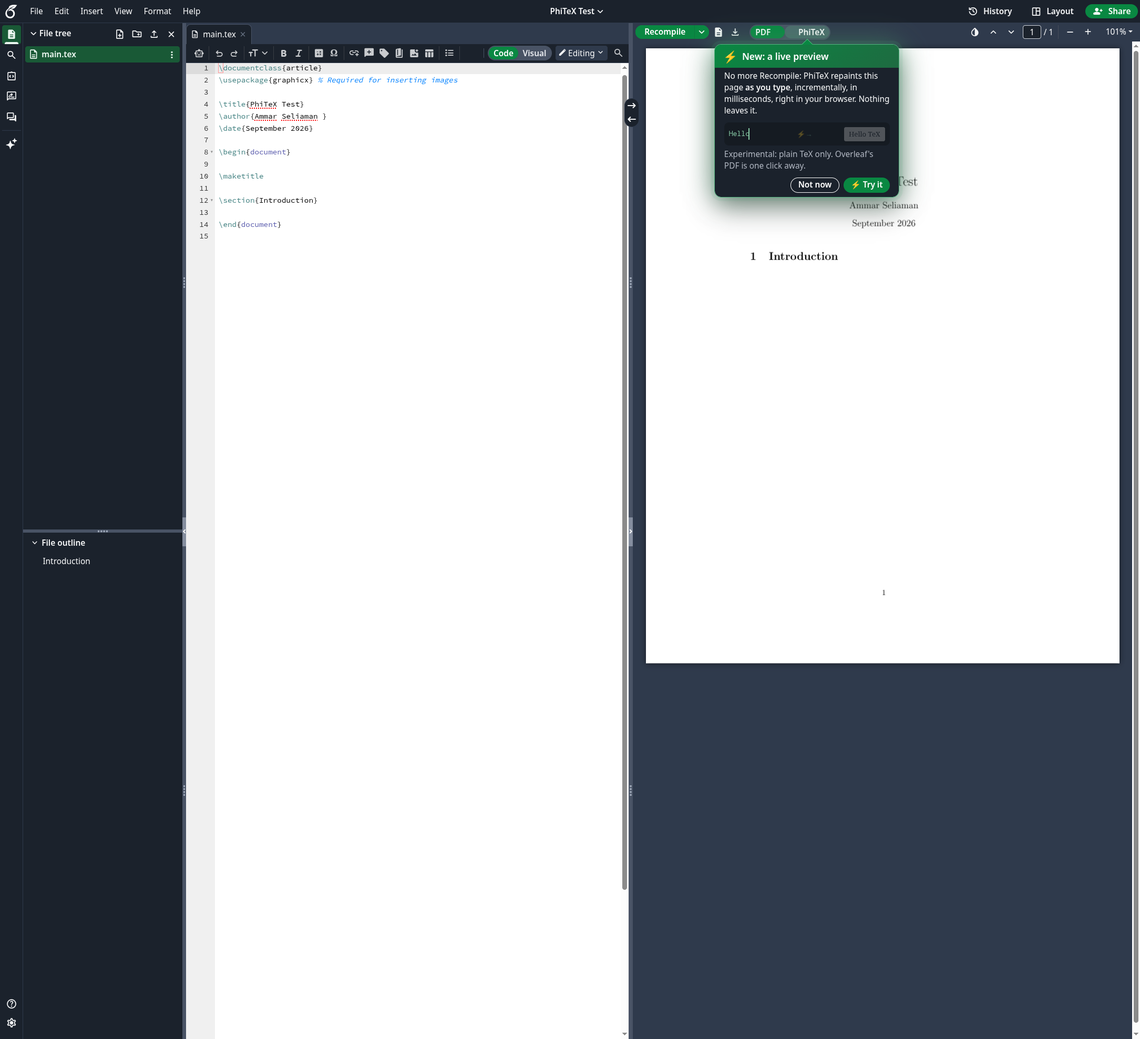
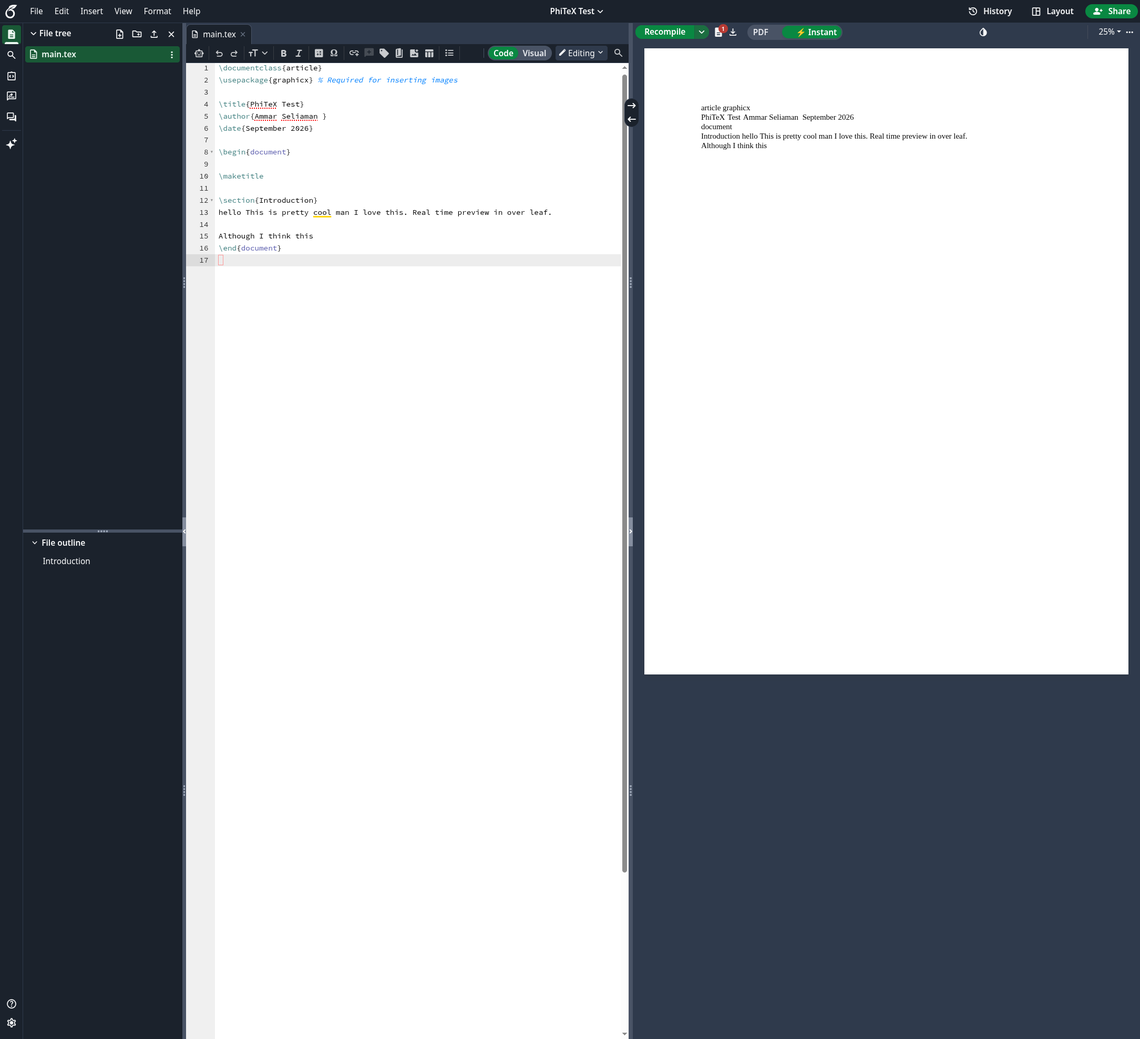
Overleaf UI: PDF | ⚡ Instant switch, native-matching toolbar, download menu, tip until dismissed, a guided tour
- The switch reads PDF | ⚡ Instant; Instant's controls mirror Overleaf's
  viewer markup (full or compact by the room actually left), and its
  hidden viewer stays laid out (pdf.js needs its offsetParent).
- Download follows the tab shown; a ▾ menu offers the other PDF
  (Overleaf's compiled one via its own link); a one-time explanation.
- The tip shows each load until "Don't show again"; a five-step tour
  after the first Try it, and from settings.

diff --git a/extension/src/content-main.ts b/extension/src/content-main.ts
@@ -148,21 +148,48 @@ const DOCK_CSS = `
   .phitex-on .pdf-viewer { visibility: hidden !important; pointer-events: none !important; }
   /* in PhiTeX mode, Overleaf's viewer controls go, all but its invert-colors button (which works on ours too) */
   .phitex-on #toolbar-pdf-controls *:not(:has(.theme-toggle-btn)):not(.theme-toggle-btn):not(.theme-toggle-btn *) { display: none !important; }
-  .phitex-on .toolbar-pdf-right { display: flex; align-items: center; }
+  .phitex-on .toolbar-pdf-right { display: flex; align-items: center; justify-content: flex-end; min-width: 0; }
+  /* its controls' wrapper keeps only the invert button: no room held for the hidden rest */
+  .phitex-on #toolbar-pdf-controls, .phitex-on #toolbar-pdf-controls > * { flex: 0 0 auto !important; width: auto !important; }
+  .phitex-on .toolbar-pdf-left { flex-shrink: 0; }
   #phitex-controls:not(.compact) .phitex-compact-only { display: none; }
   #phitex-controls.compact .pdfjs-toolbar-buttons, #phitex-controls.compact .pdfjs-page-number-input { display: none; }
   #phitex-switch { margin-left: 8px; display: inline-flex; align-items: center; position: relative; }
   #phitex-switch .toggle-switch { margin: 0; }
   #phitex-controls, #phitex-left { display: none !important; }
-  .phitex-on #phitex-controls { display: flex !important; }
+  .phitex-on #phitex-controls { display: flex !important; flex: 0 0 auto !important; width: auto !important; }
   .phitex-on #phitex-left { display: inline-flex !important; align-items: center; }
   /* in PhiTeX mode, Overleaf's own logs and download (its compiler's) give way to ours, in the same place */
   .phitex-on .toolbar-pdf-left > :not(.compile-button-group):not(#phitex-switch):not(#phitex-left) { display: none !important; }
   .phitex-badge:empty { display: none; }
+  #phitex-dlgroup { position: relative; align-items: center; }
+  #phitex-dlgroup .phitex-caret { width: 16px; min-width: 16px; margin-left: -4px; padding: 0; }
+  #phitex-dlgroup .phitex-caret .material-symbols { font-size: 16px; }
+  #phitex-dlmenu .dropdown-item { display: flex; justify-content: space-between; gap: 12px; }
+  .phitex-toast { animation: phitex-tip-in .35s cubic-bezier(.2,1.2,.4,1); cursor: pointer; }
   .phitex-badge { position: absolute; top: -2px; right: -4px; min-width: 16px; height: 16px; padding: 0 4px; border-radius: 9999px;
     font-size: 10px; font-weight: 700; line-height: 16px; text-align: center; color: #fff; background: var(--bg-info-01, #366cbf); }
   .phitex-badge.warning { background: var(--bg-warning-01, #8f5514); } .phitex-badge.error { background: var(--bg-danger-01, #b83a33); }
   #phitex-zoom-menu { min-width: 120px; }
+  #phitex-tour { position: fixed; z-index: 1060; width: 320px; max-width: calc(100vw - 16px); overflow: visible;
+    border: 1.5px solid var(--green-40, #53b57f); border-radius: 12px; box-shadow: 0 0 0 4px rgb(83 181 127 / 18%), 0 18px 48px rgb(0 0 0 / 45%);
+    animation: phitex-tip-in .35s cubic-bezier(.2,1.3,.4,1); }
+  #phitex-tour::before { content: ""; position: absolute; top: -8px; left: var(--arrow, 50%); width: 14px; height: 14px; transform: translateX(-50%) rotate(45deg);
+    background: var(--green-50, #098842); border-left: 1.5px solid var(--green-40, #53b57f); border-top: 1.5px solid var(--green-40, #53b57f); }
+  #phitex-tour .popover-header { display: flex; justify-content: space-between; align-items: center; gap: 8px; font-size: 15px; font-weight: 700; color: #fff; border: 0;
+    background: linear-gradient(135deg, var(--green-50, #098842), var(--green-60, #1e6b41)); padding: 10px 14px; }
+  #phitex-tour .phitex-step { font-size: 11px; font-weight: 600; opacity: .8; white-space: nowrap; }
+  #phitex-tour .phitex-tip-clip { overflow: hidden; border-radius: 11px; }
+  #phitex-tour .phitex-tip-actions { display: flex; gap: 8px; justify-content: flex-end; align-items: center; margin-top: 10px; }
+  #phitex-tour [data-t="skip"] { margin-right: auto; padding-left: 0; color: var(--content-placeholder-dark, #8d96a5); text-decoration: none; }
+  #phitex-tour kbd { font-size: 11px; padding: 1px 4px; }
+  .phitex-dots { display: flex; gap: 5px; justify-content: center; margin-top: 10px; }
+  .phitex-dots span { width: 6px; height: 6px; border-radius: 50%; background: rgb(255 255 255 / 25%); transition: all .2s; }
+  .phitex-dots span.on { width: 16px; border-radius: 3px; background: var(--green-40, #53b57f); }
+  .phitex-ring { position: relative; outline: 2px solid var(--green-40, #53b57f) !important; outline-offset: 2px; border-radius: 6px;
+    animation: phitex-ringo 1.3s ease-out infinite; }
+  phitex-preview.phitex-ring { outline-offset: -4px; }
+  @keyframes phitex-ringo { 50% { outline-color: rgb(83 181 127 / 30%); } }
   #phitex-tip { position: fixed; z-index: 1060; width: 320px; max-width: calc(100vw - 16px); overflow: visible;
     border: 1.5px solid var(--green-40, #53b57f); border-radius: 12px;
     box-shadow: 0 0 0 4px rgb(83 181 127 / 18%), 0 18px 48px rgb(0 0 0 / 45%), 0 0 32px rgb(83 181 127 / 35%);
@@ -189,7 +216,9 @@ const DOCK_CSS = `
   @keyframes phitex-shimmer { 0% { transform: translateX(-120%); } 45%, 100% { transform: translateX(120%); } }
   @keyframes phitex-glow { 50% { box-shadow: 0 0 0 6px rgb(83 181 127 / 10%), 0 18px 48px rgb(0 0 0 / 45%), 0 0 44px rgb(83 181 127 / 55%); } }
   #phitex-tip .phitex-bolt { display: inline-block; animation: phitex-shake 1.6s ease-in-out .5s 2; transform-origin: 50% 70%; }
-  #phitex-tip .phitex-tip-actions { display: flex; gap: 8px; justify-content: flex-end; margin-top: 10px; }
+  #phitex-tip .phitex-tip-actions { display: flex; gap: 8px; justify-content: flex-end; align-items: center; margin-top: 10px; }
+  #phitex-tip #phitex-tip-never { margin-right: auto; padding-left: 0; color: var(--content-placeholder-dark, #8d96a5); text-decoration: none; font-size: 12px; }
+  #phitex-tip #phitex-tip-never:hover { color: var(--content-primary-dark, #f4f5f6); text-decoration: underline; }
   @keyframes phitex-tip-in { 0% { opacity: 0; transform: translateY(18px) scale(.85); } 60% { opacity: 1; } }
   @keyframes phitex-shake { 0%, 100% { transform: rotate(0); } 10%, 30%, 50% { transform: rotate(-14deg) scale(1.15); } 20%, 40% { transform: rotate(14deg) scale(1.15); } 60% { transform: rotate(0); } }
   .phitex-pulse { position: relative; border-radius: 9999px; }
@@ -198,7 +227,7 @@ const DOCK_CSS = `
   .phitex-pulse { background: rgb(83 181 127 / 25%); color: #fff !important; }
   @keyframes phitex-ring { 70% { box-shadow: 0 0 0 14px rgb(83 181 127 / 0%); } 100% { box-shadow: 0 0 0 0 rgb(83 181 127 / 0%); } }
   @media (prefers-reduced-motion: reduce) {
-    #phitex-tip, #phitex-tip *, #phitex-tip .phitex-tip-clip::after, .phitex-pulse::after { animation: none !important; }
+    #phitex-tip, #phitex-tip *, #phitex-tour, .phitex-ring, #phitex-tip .phitex-tip-clip::after, .phitex-pulse::after { animation: none !important; }
     #phitex-tip .phitex-demo code { width: 9ch; } #phitex-tip .phitex-demo .phitex-mini { opacity: 1; }
   }`;
 
@@ -211,26 +240,29 @@ const DOCK_CSS = `
  * toolbar (layout changed upstream, PDF closed), the panel floats: the
  * fallback.
  */
-function dockInOverleaf(panel: Panel): { toggle(): boolean } {
+function dockInOverleaf(panel: Panel): { toggle(): boolean; tour(): void } {
   const PANE = ".pdf.full-size, .ide-redesign-pdf-container .pdf, .pdf";
   /** Without Overleaf's PDF pane this long after load, the preview floats (the fallback). */
   const FALLBACK_AFTER_MS = 8000;
+  /** The full controls' width (⌃ ⌄, page, − +, zoom), and some air. */
+  const FULL_CONTROLS_PX = 260;
   const started = performance.now();
   const style = document.createElement("style");
   style.textContent = DOCK_CSS;
   document.head.append(style);
   let mode: "pdf" | "phitex" = "pdf";
-  let tipSeen = true;
-  chrome.storage.local.get(["view", "tipSeen"]).then(({ view, tipSeen: seen }) => {
+  /** The tip shows on every load (on Overleaf's PDF) until "Don't show again". */
+  let tipOff = true;
+  chrome.storage.local.get(["view", "tipOff"]).then(({ view, tipOff: off }) => {
     if (view === "phitex" || view === "pdf") mode = view;
-    tipSeen = !!seen;
+    tipOff = !!off;
     tick();
-    if (!tipSeen) setTimeout(tip, 1500);
+    if (!tipOff) setTimeout(tip, 1500);
   });
   const set = (m: "pdf" | "phitex") => {
     mode = m;
     void chrome.storage.local.set({ view: m });
-    if (m === "phitex") dismissTip();
+    if (m === "phitex") hideTip();
     tick();
   };
 
@@ -244,9 +276,9 @@ function dockInOverleaf(panel: Panel): { toggle(): boolean } {
     sw.setAttribute("aria-label", "Preview: Overleaf's PDF or PhiTeX's");
     sw.innerHTML = `<form><fieldset class="toggle-switch"><legend class="visually-hidden">Preview</legend>
       <input type="radio" name="phitex-view" id="phitex-v-pdf" class="toggle-switch-input" value="pdf">
-      <label for="phitex-v-pdf" class="toggle-switch-label" title="Overleaf's compiler and PDF"><span>Overleaf compiler</span></label>
+      <label for="phitex-v-pdf" class="toggle-switch-label" title="Overleaf's compiled PDF"><span>PDF</span></label>
       <input type="radio" name="phitex-view" id="phitex-v-phitex" class="toggle-switch-input" value="phitex">
-      <label for="phitex-v-phitex" class="toggle-switch-label" title="PhiTeX's live preview (experimental) · Alt+Shift+P"><span>PhiTeX</span></label>
+      <label for="phitex-v-phitex" class="toggle-switch-label" title="Instant preview by PhiTeX (experimental) · Alt+Shift+P"><span>⚡ Instant</span></label>
     </fieldset></form>`;
     sw.addEventListener("change", (e) => set((e.target as HTMLInputElement).value as "pdf" | "phitex"));
     left.append(sw);
@@ -321,6 +353,26 @@ function dockInOverleaf(panel: Panel): { toggle(): boolean } {
     return c;
   }
 
+  const compiledLink = () => document.querySelector<HTMLAnchorElement>('.toolbar-pdf-left a[aria-label="Download PDF"][href]');
+
+  /** The first Instant download says what it is, once: Overleaf's popover, under the button. */
+  function explainOnce(anchor: Element): void {
+    chrome.storage.local.get("dlExplained").then(({ dlExplained }) => {
+      if (dlExplained) return;
+      void chrome.storage.local.set({ dlExplained: true });
+      const b = anchor.querySelector("#phitex-dlgroup")!.getBoundingClientRect();
+      const t = document.createElement("div");
+      t.className = "popover bs-popover-bottom show phitex-toast";
+      t.setAttribute("role", "status");
+      t.innerHTML = `<div class="popover-body">This is the <b>⚡ Instant</b> preview's PDF (PhiTeX, experimental), named <code>…-instant.pdf</code>.
+        Overleaf's compiled PDF is in the <b>▾</b> menu, or on the PDF tab.</div>`;
+      Object.assign(t.style, { position: "fixed", left: `${Math.max(8, b.left - 20)}px`, top: `${b.bottom + 8}px`, maxWidth: "280px", zIndex: "1060" });
+      document.body.append(t);
+      setTimeout(() => t.remove(), 7000);
+      t.onclick = () => t.remove();
+    });
+  }
+
   /** In Overleaf's left toolbar, where its logs and download are: ours (PhiTeX's diagnostics and PDF). */
   function leftEl(left: Element): HTMLElement {
     let l = document.getElementById("phitex-left");
@@ -332,10 +384,42 @@ function dockInOverleaf(panel: Panel): { toggle(): boolean } {
       `<button type="button" id="phitex-logs" aria-label="PhiTeX diagnostics" title="PhiTeX diagnostics" class="d-inline-grid pdf-toolbar-btn toolbar-item log-btn btn btn-link" style="position: relative;">` +
       `<span class="button-content" aria-hidden="false"><span class="material-symbols" aria-hidden="true" translate="no">description</span></span>` +
       `<span class="phitex-badge" id="phitex-badge"></span></button>` +
-      `<button type="button" id="phitex-dl" aria-label="Download PhiTeX's PDF" title="Download PhiTeX's PDF (made locally)" class="d-inline-grid pdf-toolbar-btn toolbar-item btn btn-link">` +
-      `<span class="button-content" aria-hidden="false"><span class="material-symbols" aria-hidden="true" translate="no">download</span></span></button>`;
+      // (download what you see: this tab's PDF; the other one in the ▾ menu)
+      `<div class="dropdown btn-group" id="phitex-dlgroup">` +
+      `<button type="button" id="phitex-dl" aria-label="Download the Instant PDF" title="Download the ⚡ Instant PDF (PhiTeX, experimental)" class="d-inline-grid pdf-toolbar-btn toolbar-item btn btn-link">` +
+      `<span class="button-content" aria-hidden="false"><span class="material-symbols" aria-hidden="true" translate="no">download</span></span></button>` +
+      `<button type="button" id="phitex-dlmore" aria-label="Which PDF to download" title="Which PDF to download" aria-expanded="false" class="d-inline-grid pdf-toolbar-btn toolbar-item btn btn-link phitex-caret">` +
+      `<span class="material-symbols" aria-hidden="true" translate="no">expand_more</span></button>` +
+      `<ul class="dropdown-menu" id="phitex-dlmenu" role="menu">` +
+      `<li><button type="button" class="dropdown-item" data-dl="instant">⚡ Instant PDF <span class="text-muted small">PhiTeX, experimental</span></button></li>` +
+      `<li><button type="button" class="dropdown-item" data-dl="compiled">Compiled PDF <span class="text-muted small">Overleaf</span></button></li></ul></div>`;
     l.querySelector<HTMLElement>("#phitex-logs")!.onclick = () => panel.diagnostics();
-    l.querySelector<HTMLElement>("#phitex-dl")!.onclick = () => panel.pdf();
+    const menu = l.querySelector<HTMLElement>("#phitex-dlmenu")!,
+      more = l.querySelector<HTMLElement>("#phitex-dlmore")!;
+    const instant = () => {
+      panel.pdf();
+      explainOnce(l!);
+    };
+    l.querySelector<HTMLElement>("#phitex-dl")!.onclick = instant;
+    more.onclick = (e) => {
+      e.stopPropagation();
+      // (Overleaf's compiled PDF: its own download link, there once it has compiled)
+      const native = compiledLink();
+      const item = menu.querySelector<HTMLButtonElement>('[data-dl="compiled"]')!;
+      item.disabled = !native;
+      item.title = native ? "The PDF of Overleaf's last compile" : "Recompile first: Overleaf has no PDF yet";
+      const open = !menu.classList.contains("show");
+      menu.classList.toggle("show", open);
+      more.setAttribute("aria-expanded", String(open));
+      Object.assign(menu.style, open ? { position: "absolute", inset: "100% auto auto 0" } : {});
+    };
+    menu.onclick = (e) => {
+      const which = (e.target as HTMLElement).closest<HTMLElement>("[data-dl]")?.dataset.dl;
+      menu.classList.remove("show");
+      if (which === "instant") instant();
+      if (which === "compiled") compiledLink()?.click();
+    };
+    document.addEventListener("click", () => menu.classList.remove("show"));
     const group = left.querySelector(".compile-button-group");
     if (group) group.after(l);
     else left.prepend(l);
@@ -364,7 +448,7 @@ function dockInOverleaf(panel: Panel): { toggle(): boolean } {
   /** The first-run tip: Overleaf's own popover, pointing at the switch. */
   function tip(): void {
     const sw = document.getElementById("phitex-switch");
-    if (tipSeen || mode !== "pdf" || !sw || document.getElementById("phitex-tip")) return;
+    if (tipOff || mode !== "pdf" || !sw || document.getElementById("phitex-tip")) return;
     const label = sw.querySelector('label[for="phitex-v-phitex"]') as HTMLElement;
     label.classList.add("phitex-pulse");
     const t = document.createElement("div");
@@ -377,7 +461,8 @@ function dockInOverleaf(panel: Panel): { toggle(): boolean } {
       <div class="popover-body">No more Recompile: PhiTeX repaints this page <b>as you type</b>, incrementally, in milliseconds, right in your browser. Nothing leaves it.
         <div class="phitex-demo" aria-hidden="true"><code>Hello TeX</code><span class="phitex-arrow">⚡→</span><span class="phitex-mini">Hello TeX</span></div>
         <div class="small text-muted" style="margin-top:6px">Experimental: plain TeX only. Overleaf's PDF is one click away.</div>
-        <div class="phitex-tip-actions"><button type="button" class="btn btn-secondary btn-sm" id="phitex-tip-no">Not now</button>
+        <div class="phitex-tip-actions"><button type="button" class="btn btn-link btn-sm" id="phitex-tip-never">Don't show again</button>
+        <button type="button" class="btn btn-secondary btn-sm" id="phitex-tip-no">Not now</button>
         <button type="button" class="btn btn-primary btn-sm" id="phitex-tip-yes">⚡ Try it</button></div></div></div>`;
     document.body.append(t);
     const place = () => {
@@ -390,16 +475,72 @@ function dockInOverleaf(panel: Panel): { toggle(): boolean } {
     };
     place();
     addEventListener("resize", place);
-    t.querySelector<HTMLElement>("#phitex-tip-yes")!.onclick = () => set("phitex");
-    t.querySelector<HTMLElement>("#phitex-tip-no")!.onclick = dismissTip;
+    t.querySelector<HTMLElement>("#phitex-tip-yes")!.onclick = () => {
+      set("phitex");
+      chrome.storage.local.get("toured").then(({ toured }) => !toured && setTimeout(() => tour(0), 700));
+    };
+    t.querySelector<HTMLElement>("#phitex-tip-no")!.onclick = hideTip;
+    t.querySelector<HTMLElement>("#phitex-tip-never")!.onclick = () => {
+      tipOff = true;
+      void chrome.storage.local.set({ tipOff: true });
+      hideTip();
+    };
   }
 
-  function dismissTip(): void {
-    tipSeen = true;
-    void chrome.storage.local.set({ tipSeen: true });
+  /** Until the next load. */
+  function hideTip(): void {
     document.getElementById("phitex-tip")?.remove();
     document.querySelector(".phitex-pulse")?.classList.remove("phitex-pulse");
   }
+
+  /** The walkthrough: Overleaf's popover, a step at a time, the thing it explains ringed. */
+  const STEPS: { at: () => Element | null; title: string; body: string; inside?: boolean }[] = [
+    { at: () => document.getElementById("phitex-switch"), title: "Two previews, one click", body: "<b>PDF</b> is Overleaf's compiler, as always. <b>⚡ Instant</b> is PhiTeX, live. Switch any time, or press <kbd>Alt</kbd>+<kbd>Shift</kbd>+<kbd>P</kbd>." },
+    { at: () => document.querySelector("phitex-preview"), inside: true, title: "Type, and watch", body: "Edit anything in the editor: this page repaints as you type, usually in a few milliseconds. The <b>⚡ chip</b> in the corner shows how fast. No Recompile." },
+    { at: () => document.getElementById("phitex-logs"), title: "What PhiTeX couldn't read", body: "Diagnostics, with a count. Click one to jump to its line. PhiTeX handles plain TeX: LaTeX commands are listed here, not typeset (yet)." },
+    { at: () => document.getElementById("phitex-dlgroup"), title: "Download what you see", body: "This downloads the <b>⚡ Instant</b> PDF (<code>…-instant.pdf</code>). The <b>▾</b> menu has Overleaf's compiled PDF too." },
+    { at: () => document.getElementById("phitex-zoom"), title: "Zoom, and the details", body: "Zoom like Overleaf's viewer. At the bottom of this menu: settings and timings (main file, a debug check against a fresh build). Everything runs in your browser; nothing leaves it." },
+  ];
+
+  function tour(k = 0): void {
+    endTour();
+    if (mode !== "phitex") set("phitex");
+    const step = STEPS[k];
+    const target = step?.at();
+    if (!step || !target) return endTour(true);
+    target.classList.add("phitex-ring");
+    const t = document.createElement("div");
+    t.id = "phitex-tour";
+    t.className = "popover bs-popover-bottom show";
+    t.setAttribute("role", "dialog");
+    t.setAttribute("aria-label", `Tour, step ${k + 1} of ${STEPS.length}`);
+    t.innerHTML = `<div class="phitex-tip-clip"><div class="popover-header"><span>${step.title}</span><span class="phitex-step">${k + 1} of ${STEPS.length}</span></div>
+      <div class="popover-body">${step.body}
+        <div class="phitex-dots">${STEPS.map((_, i) => `<span class="${i === k ? "on" : ""}"></span>`).join("")}</div>
+        <div class="phitex-tip-actions"><button type="button" class="btn btn-link btn-sm" data-t="skip">Skip</button>
+          ${k ? `<button type="button" class="btn btn-secondary btn-sm" data-t="back">Back</button>` : ""}
+          <button type="button" class="btn btn-primary btn-sm" data-t="next">${k === STEPS.length - 1 ? "Done" : "Next"}</button></div></div></div>`;
+    document.body.append(t);
+    const r = target.getBoundingClientRect(), w = t.offsetWidth;
+    const left = Math.max(8, Math.min((step.inside ? r.left + r.width / 2 : r.left + r.width / 2) - w / 2, innerWidth - w - 8));
+    t.style.left = `${left}px`;
+    t.style.top = `${step.inside ? r.top + 24 : r.bottom + 10}px`;
+    t.style.setProperty("--arrow", step.inside ? "-100px" : `${r.left + r.width / 2 - left}px`);
+    t.onclick = (e) => {
+      const a = (e.target as HTMLElement).closest<HTMLElement>("[data-t]")?.dataset.t;
+      if (a === "next") tour(k + 1);
+      if (a === "back") tour(k - 1);
+      if (a === "skip") endTour(true);
+    };
+    t.querySelector<HTMLElement>('[data-t="next"]')!.focus();
+  }
+
+  function endTour(done = false): void {
+    document.getElementById("phitex-tour")?.remove();
+    document.querySelectorAll(".phitex-ring").forEach((e) => e.classList.remove("phitex-ring"));
+    if (done) void chrome.storage.local.set({ toured: true });
+  }
+  addEventListener("keydown", (e) => e.key === "Escape" && document.getElementById("phitex-tour") && endTour(true));
 
   function tick(): void {
     const pane = document.querySelector<HTMLElement>(PANE);
@@ -415,8 +556,14 @@ function dockInOverleaf(panel: Panel): { toggle(): boolean } {
     }
     const sw = switchEl(left);
     leftEl(left);
-    // (Overleaf's own controls say which layout the pane's width calls for: compact or full)
-    controlsEl(right).classList.toggle("compact", !!right.querySelector(".pdfjs-viewer-controls-small"));
+    // (compact when the full controls do not fit what the toolbar has left: measured here,
+    // not taken from Overleaf's own choice, which counts our switch against its room)
+    const ctl = controlsEl(right);
+    if (mode === "phitex") {
+      const bar = pane.querySelector<HTMLElement>(".toolbar-pdf") ?? pane;
+      const used = left.getBoundingClientRect().width + (right.querySelector(".theme-toggle-btn")?.getBoundingClientRect().width ?? 0);
+      ctl.classList.toggle("compact", bar.clientWidth - used < FULL_CONTROLS_PX);
+    }
     (sw.querySelector(`input[value="${mode}"]`) as HTMLInputElement).checked = true;
     panel.dock(pane, pane.querySelector(".toolbar-pdf"));
     pane.classList.toggle("phitex-on", mode === "phitex");
@@ -424,6 +571,7 @@ function dockInOverleaf(panel: Panel): { toggle(): boolean } {
   }
   setInterval(tick, 700);
   return {
+    tour: () => tour(0),
     toggle: () => {
       if (!document.getElementById("phitex-switch")) return false;
       set(mode === "pdf" ? "phitex" : "pdf");
@@ -434,7 +582,7 @@ function dockInOverleaf(panel: Panel): { toggle(): boolean } {
 
 (async () => {
   let session: PreviewSession;
-  let dock: { toggle(): boolean } | undefined;
+  let dock: { toggle(): boolean; tour(): void } | undefined;
   const panel = new Panel({
     onPage: (p) => session.setPage(p),
     onPdf: async () => {
@@ -443,7 +591,7 @@ function dockInOverleaf(panel: Panel): { toggle(): boolean } {
       const url = URL.createObjectURL(new Blob([pdf as BlobPart], { type: "application/pdf" }));
       const a = document.createElement("a");
       a.href = url;
-      a.download = `${(session.main ?? "phitex").replace(/\.tex$/, "").replace(/.*\//, "")}-phitex.pdf`;
+      a.download = `${(session.main ?? "phitex").replace(/\.tex$/, "").replace(/.*\//, "")}-instant.pdf`;
       a.click();
       setTimeout(() => URL.revokeObjectURL(url), 10_000);
     },
@@ -454,6 +602,7 @@ function dockInOverleaf(panel: Panel): { toggle(): boolean } {
     onGoto: (file, line) => window.postMessage({ src: "phitex-content", type: "goto", file, line }, location.origin),
     onReload: async () => session.refresh(await fetchDocs(panel)),
     onShortcut: () => dock?.toggle() ?? false,
+    onTour: () => dock?.tour(),
   }, prefs);
   dock = dockInOverleaf(panel);
   const transport = new ChromeTransport();

diff --git a/extension/src/panel.ts b/extension/src/panel.ts
@@ -40,6 +40,8 @@ export interface PanelEvents {
   onGoto(file: string, line: number): void;
   /** Alt+Shift+P: return true if the host handled it (docked: PDF ⇄ PhiTeX); else the window collapses. */
   onShortcut?(): boolean;
+  /** "Take the tour" (settings). */
+  onTour?(): void;
 }
 
 /** Where the panel keeps its preferences (chrome.storage.local in the extension). */
@@ -312,6 +314,7 @@ export class Panel {
     <label title="Vector: PhiTeX's positions and line breaks, the browser's glyphs. PNG: PhiTeX's own raster (a box per glyph).">View <select id="fmt"><option value="vector">Vector</option><option value="png">PNG</option></select></label>
     <span class="grow"></span>
     <label class="show-docked" title="Check against a fresh build every 5 s"><input type="checkbox" id="dbg2"> Debug check</label>
+    <button class="ib show-docked" id="tour" title="Take the tour" aria-label="Take the tour" style="width:auto;padding:0 6px;font-size:12px;color:var(--info)">Take the tour</button>
     <button class="ib" id="reload" title="Fetch the project's files again" aria-label="Reload files"><span class="icon">sync</span></button>
     <button class="btn" id="pdf" title="PhiTeX's PDF, made locally"><span class="icon">download</span>PDF</button>
     <div class="details" id="details"></div>
@@ -337,6 +340,10 @@ export class Panel {
     const dbg = this.$("#dbg");
     dbg.onclick = () => this.toggleDebug();
     this.$("#dbg2").onchange = () => this.toggleDebug();
+    this.$("#tour").onclick = () => {
+      this.sheet(false);
+      ev.onTour?.();
+    };
     this.$<HTMLSelectElement>("#main").onchange = (e) => ev.onMain((e.target as HTMLSelectElement).value);
     this.$<HTMLSelectElement>("#zoom").onchange = (e) => this.zoomTo((e.target as HTMLSelectElement).value);
     this.$<HTMLSelectElement>("#fmt").onchange = (e) => {

diff --git a/README.md b/README.md
@@ -39,8 +39,7 @@ PhiTeX read-only, `$HOME` empty, no network unless `--net`).
 
 ## The panel
 
-**Docked** in Overleaf's PDF pane: an **Overleaf compiler | PhiTeX** switch
-sits in the PDF toolbar next to Recompile (Alt+Shift+P toggles it). In PhiTeX mode the
+**Docked** in Overleaf's PDF pane: a **PDF | ⚡ Instant** switch sits in the PDF toolbar next to Recompile (Alt+Shift+P toggles it). In PhiTeX mode the
 preview takes the place of Overleaf's viewer, which is hidden, not removed.
 Its controls are Overleaf's own, markup for markup, laid out as Overleaf's
 viewer does for the pane's width:
@@ -51,8 +50,8 @@ The zoom menu also holds PhiTeX's settings and timings. Where Overleaf has
 its logs and download, PhiTeX shows its own: a diagnostics button with a
 count badge, and PhiTeX's PDF. A ⚡ chip at the bottom right of the pane
 shows each repaint's keystroke→page time. It follows Overleaf's theme (`data-theme`, `--pdf-bg`), and
-Overleaf's "dark mode PDF" invert applies to it too. The first time, a tip
-bubble points at the switch.
+Overleaf's "dark mode PDF" invert applies to it too. A tip bubble points at the switch on each load, while
+Overleaf's PDF is showing, until you click "Don't show again".
 
 **Floating window**: the fallback when Overleaf's layout isn't found, for
 example when the PDF pane is closed or an upstream change moved it. It

diff --git a/REPORT.md b/REPORT.md
@@ -196,8 +196,7 @@ None of them blocks the extension today.
 
 ## UI
 
-- **Docked** in Overleaf's PDF pane behind an **Overleaf compiler | PhiTeX**
-  switch.
+- **Docked** in Overleaf's PDF pane behind an **PDF | ⚡ Instant** switch.
 - **Overleaf's own markup** for the controls. It is copied from its source
   (`overleaf/overleaf` `services/web/frontend`): pdf-hybrid toolbar,
   toggle-switch, popover. Its theming follows `data-theme`, `--pdf-bg`, and
